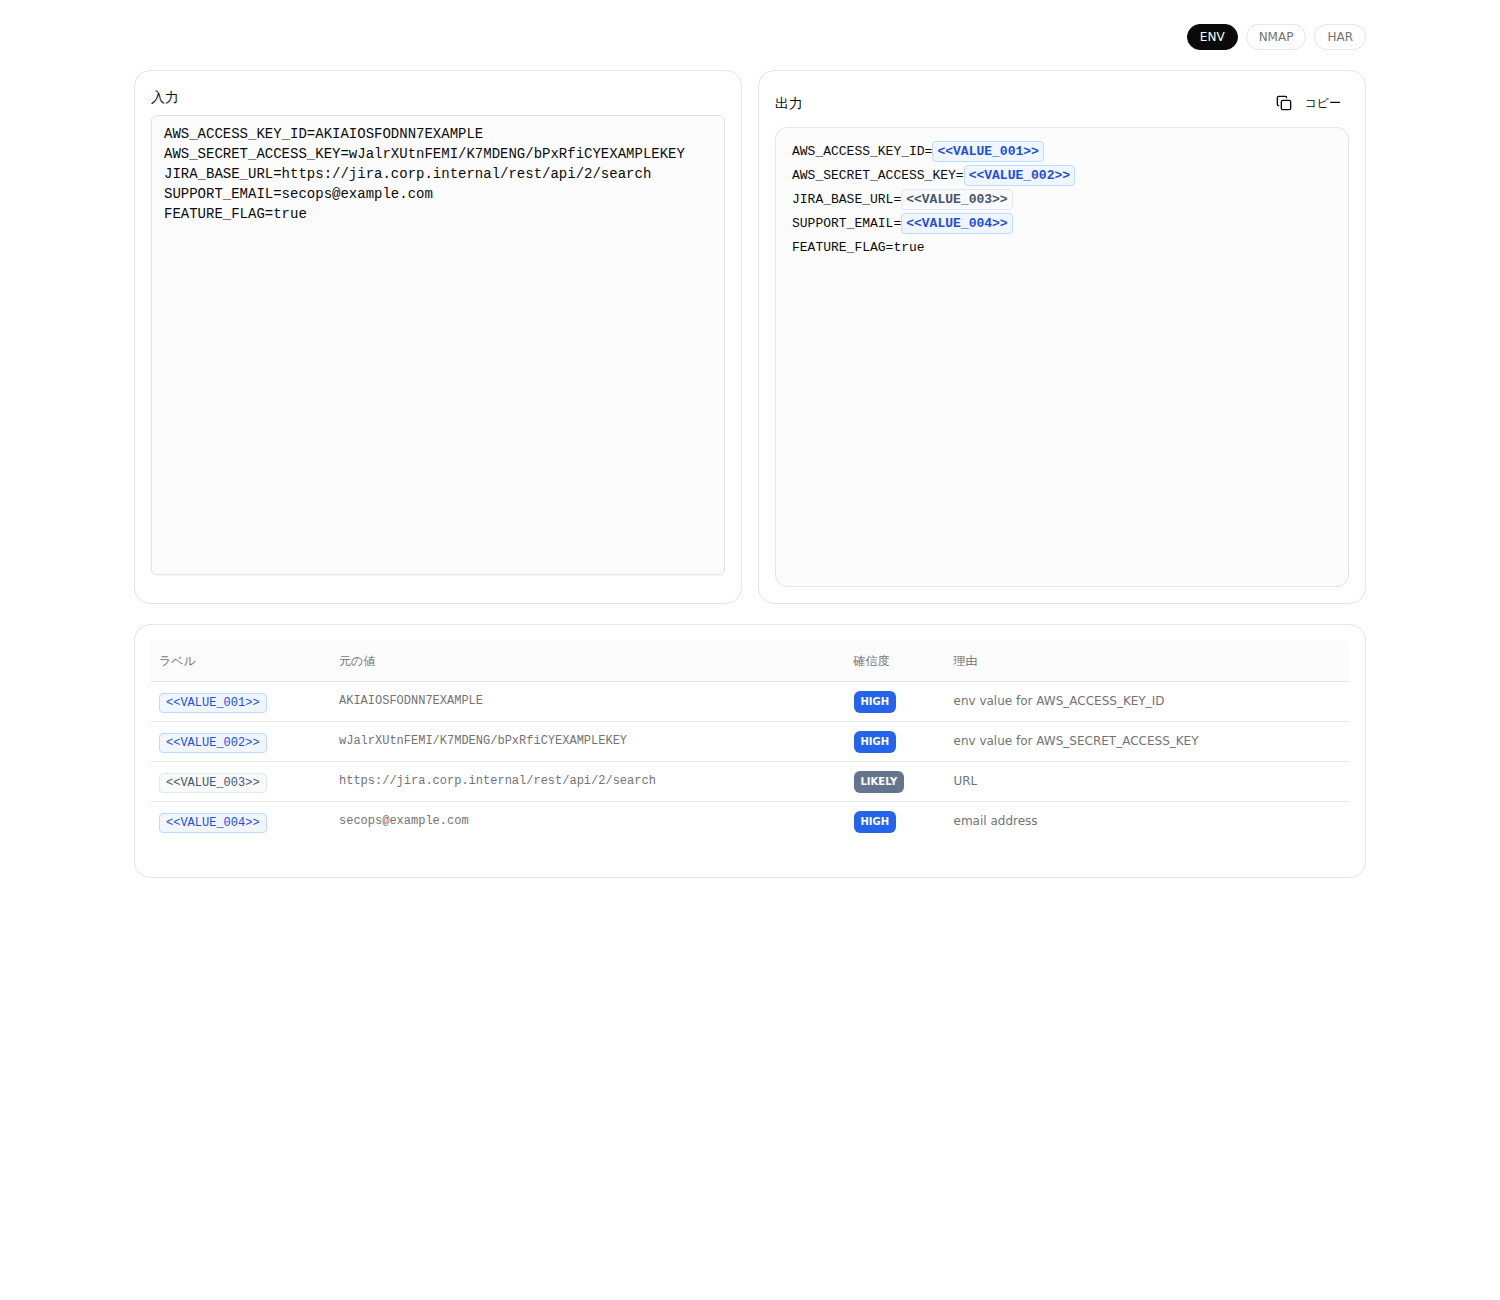
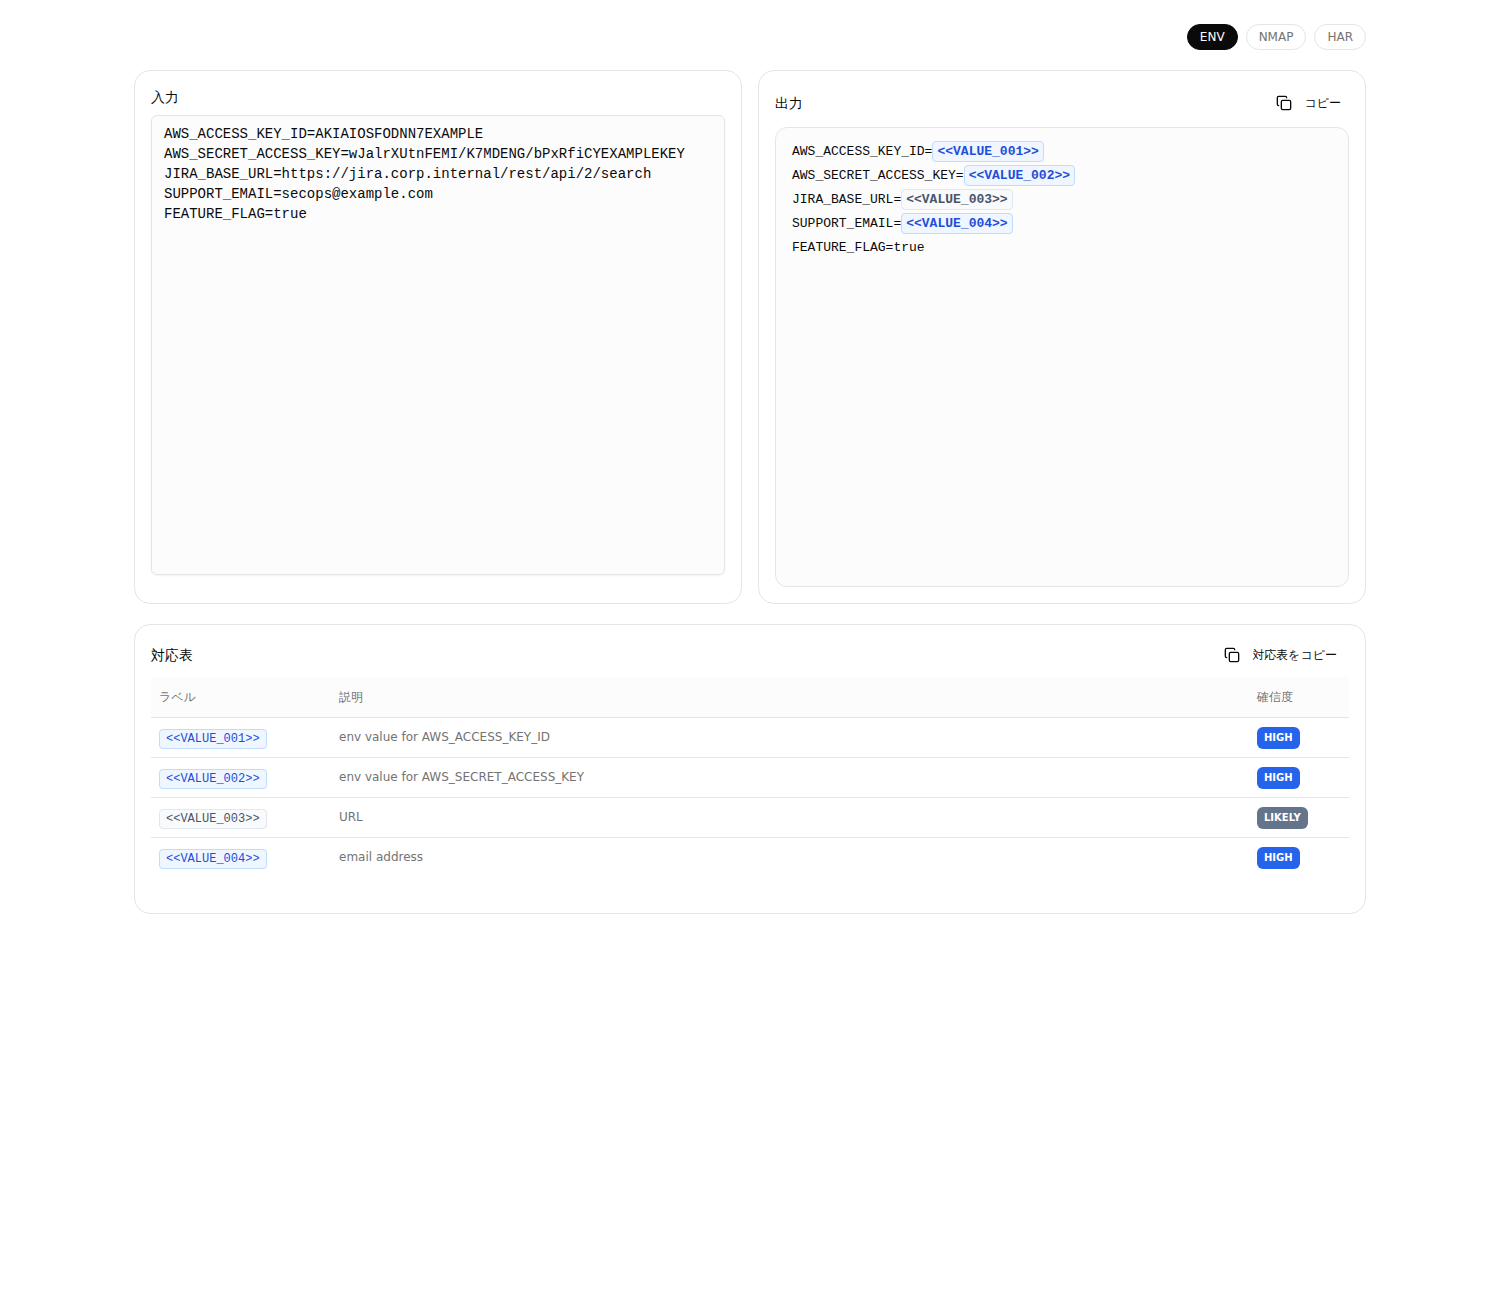
Replace original values with descriptions in mapping table
- Remove "元の値" column, show "説明" (reason) instead
- Add copy button for mapping table (tab-separated for pasting to AI)
- Original secrets never shown in the UI

diff --git a/src/App.tsx b/src/App.tsx
@@ -415,38 +415,48 @@ export default function App() {
         </section>
 
         <section className="mt-5 rounded-2xl border border-border bg-card p-4">
+          <div className="mb-2 flex items-center justify-between">
+            <span className="text-sm font-medium">対応表</span>
+            <Button
+              size="sm"
+              variant="ghost"
+              className="h-7 text-xs"
+              onClick={async () => {
+                const lines = tableMappings.map(
+                  (m) => `${m.label}\t${m.reason}\t${m.confidence}`
+                );
+                await navigator.clipboard.writeText(lines.join("\n"));
+              }}
+            >
+              <Copy className="mr-1 h-3.5 w-3.5" />
+              対応表をコピー
+            </Button>
+          </div>
           <div className="min-h-[220px] overflow-x-auto">
             <Table>
               <TableHeader>
                 <TableRow className="bg-muted/30">
                   <TableHead className="w-[180px] text-xs">ラベル</TableHead>
-                  <TableHead className="text-xs">元の値</TableHead>
+                  <TableHead className="text-xs">説明</TableHead>
                   <TableHead className="w-[100px] text-xs">確信度</TableHead>
-                  <TableHead className="text-xs">理由</TableHead>
                 </TableRow>
               </TableHeader>
               <TableBody>
                 {tableMappings.map((mapping) => {
                   const colors = CONFIDENCE_COLORS[mapping.confidence];
-                  const isActive = activeLabels.includes(mapping.label);
                   return (
                     <TableRow
-                      key={`${mapping.label}:${mapping.original}`}
-                      className={` ${
-                        ""
-                      }`}
+                      key={`${mapping.label}:${mapping.reason}`}
                     >
                       <TableCell className="py-2">
                         <code
-                          className={`rounded-sm border px-1.5 py-0.5 text-xs  ${colors.bg} ${colors.text} ${colors.border} ${
-                            isActive ? "" : ""
-                          }`}
+                          className={`rounded-sm border px-1.5 py-0.5 text-xs ${colors.bg} ${colors.text} ${colors.border}`}
                         >
                           {mapping.label}
                         </code>
                       </TableCell>
-                      <TableCell className="break-all py-2 font-mono text-xs text-muted-foreground">
-                        {mapping.original}
+                      <TableCell className="py-2 text-xs text-muted-foreground">
+                        {mapping.reason}
                       </TableCell>
                       <TableCell className="py-2">
                         <Badge
@@ -455,9 +465,6 @@ export default function App() {
                         >
                           {mapping.confidence}
                         </Badge>
-                      </TableCell>
-                      <TableCell className="py-2 text-xs text-muted-foreground">
-                        {mapping.reason}
                       </TableCell>
                     </TableRow>
                   );
